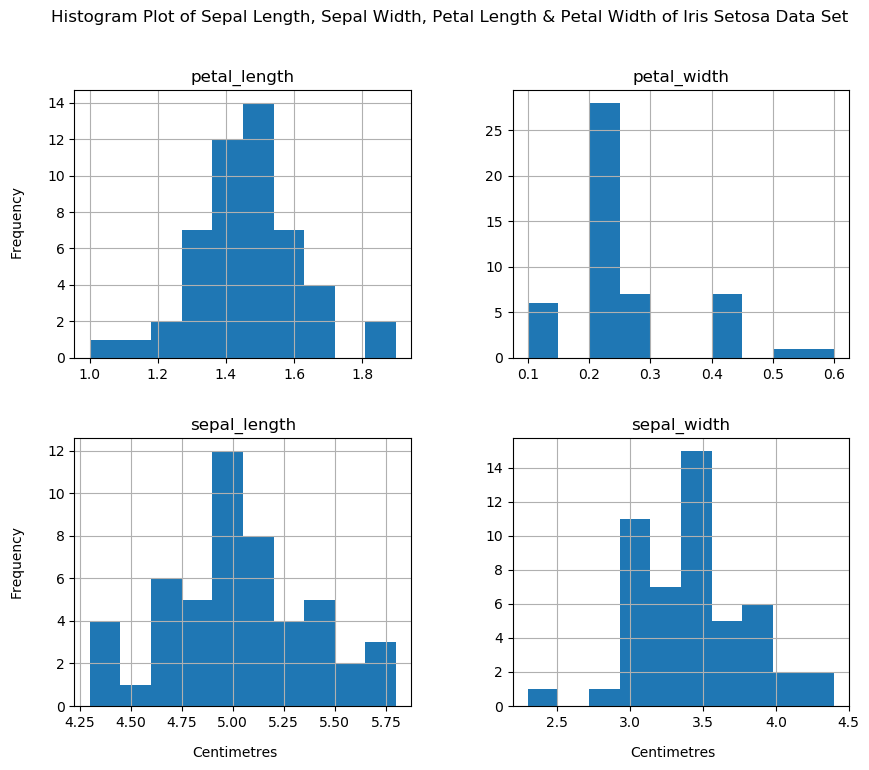
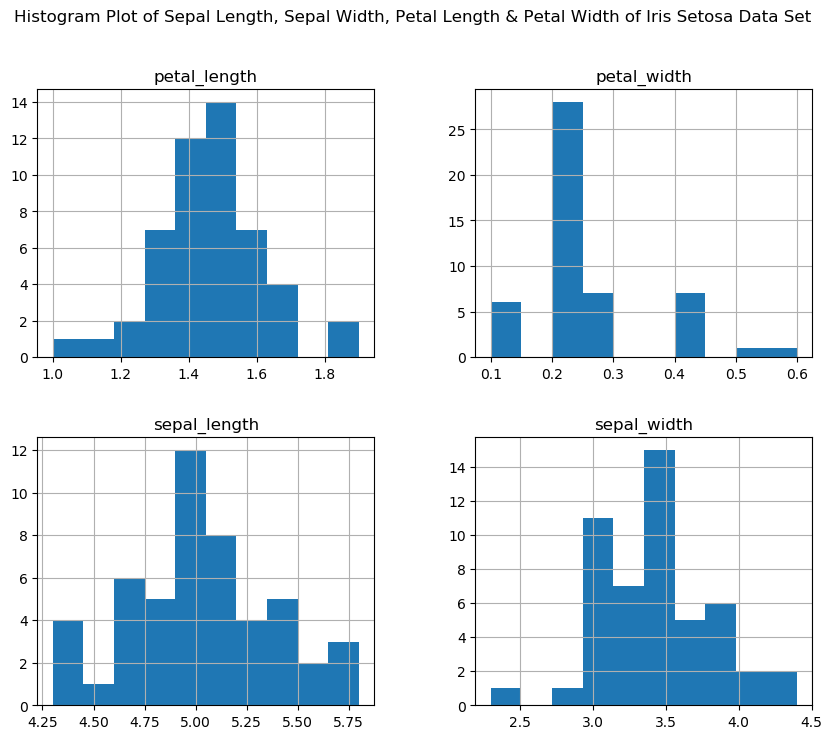
HIstogram
Update individual species plots

diff --git a/data_analysis.py b/data_analysis.py
@@ -80,30 +80,30 @@ print(iris_data[virginica].describe())
 hss = iris_data[setosa].hist(column=['sepal_length', 'sepal_width',
                                      'petal_length', 'petal_width'], figsize=(10, 8))
 plt.suptitle('Histogram Plot of Sepal Length, Sepal Width, Petal Length & Petal Width of Iris Setosa Data Set')
-plt.text(0, -3, 'Centimetres')
-plt.text(3, -3, 'Centimetres')
-plt.text(-1.25, 10, 'Frequency', rotation='vertical')
-plt.text(-1.25, 30, 'Frequency', rotation='vertical')
+# plt.text(0, -3, 'Centimetres')
+# plt.text(3, -3, 'Centimetres')
+# plt.text(-1.25, 10, 'Frequency', rotation='vertical')
+# plt.text(-1.25, 30, 'Frequency', rotation='vertical')
 plt.savefig('./images/histogram_plot_setosa.png', bbox_inches='tight')
 # plt.show()
 
 hsver = iris_data[versicolor].hist(column=['sepal_length', 'sepal_width',
                                            'petal_length', 'petal_width'], figsize=(10, 8))
 plt.suptitle('Histogram Plot of Sepal Length, Sepal Width, Petal Length & Petal Width of Iris Versicolor Data Set')
-plt.text(0, -3, 'Centimetres')
-plt.text(3, -3, 'Centimetres')
-plt.text(-1.25, 10, 'Frequency', rotation='vertical')
-plt.text(-1.25, 30, 'Frequency', rotation='vertical')
+# plt.text(0, -3, 'Centimetres')
+# plt.text(3, -3, 'Centimetres')
+# plt.text(-1.25, 10, 'Frequency', rotation='vertical')
+# plt.text(-1.25, 30, 'Frequency', rotation='vertical')
 plt.savefig('./images/histogram_plot_versicolor.png', bbox_inches='tight')
 # plt.show()
 
 hsvir = iris_data[virginica].hist(column=['sepal_length', 'sepal_width',
                                            'petal_length', 'petal_width'], figsize=(10, 8))
 plt.suptitle('Histogram Plot of Sepal Length, Sepal Width, Petal Length & Petal Width of Iris Virginica Data Set')
-plt.text(0, -3, 'Centimetres')
-plt.text(3, -3, 'Centimetres')
-plt.text(-1.25, 10, 'Frequency', rotation='vertical')
-plt.text(-1.25, 30, 'Frequency', rotation='vertical')
+# plt.text(0, -3, 'Centimetres')
+# plt.text(3, -3, 'Centimetres')
+# plt.text(-1.25, 10, 'Frequency', rotation='vertical')
+# plt.text(-1.25, 30, 'Frequency', rotation='vertical')
 plt.savefig('./images/histogram_plot_virginica.png', bbox_inches='tight')
 # plt.show()
 
